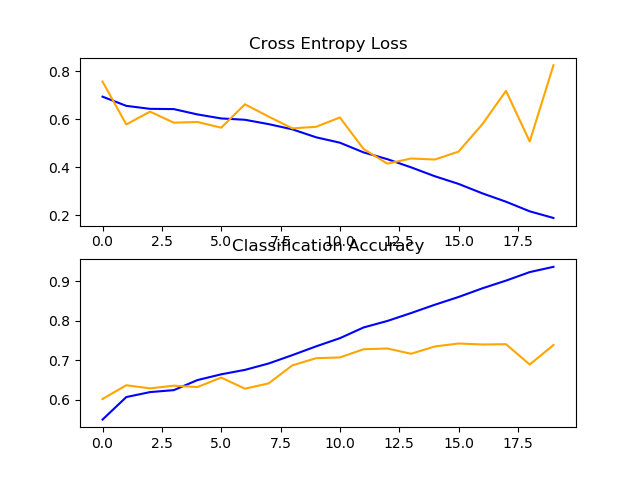
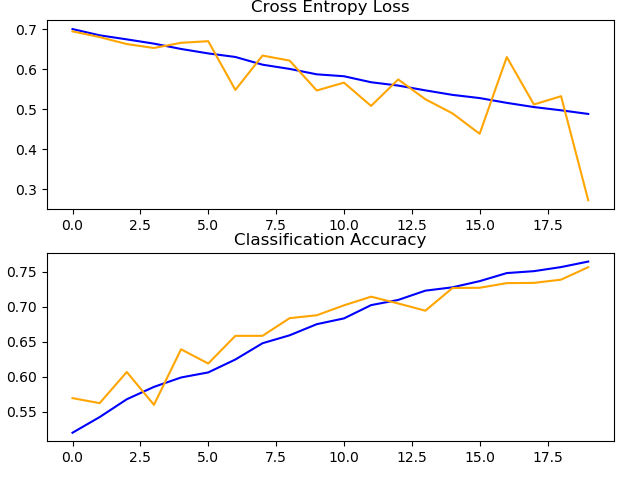
Add files via upload

diff --git a/TestHarness.py b/TestHarness.py
@@ -3,6 +3,7 @@ import sys
 from matplotlib import pyplot
 from keras.utils import to_categorical
 from keras.models import Sequential
+from keras.layers import Dropout
 from keras.layers import Conv2D
 from keras.layers import MaxPooling2D
 from keras.layers import Dense
@@ -18,8 +19,16 @@ def define_model():
 	model = Sequential()
 	model.add(Conv2D(32, (3, 3), activation='relu', kernel_initializer='he_uniform', padding='same', input_shape=(200, 200, 3)))
 	model.add(MaxPooling2D((2, 2)))
+	model.add(Dropout(0.2))
+	model.add(Conv2D(64, (3, 3), activation='relu', kernel_initializer='he_uniform', padding='same'))
+	model.add(MaxPooling2D((2, 2)))
+	model.add(Dropout(0.2))
+	model.add(Conv2D(128, (3, 3), activation='relu', kernel_initializer='he_uniform', padding='same'))
+	model.add(MaxPooling2D((2, 2)))
+	model.add(Dropout(0.2))
 	model.add(Flatten())
 	model.add(Dense(128, activation='relu', kernel_initializer='he_uniform'))
+	model.add(Dropout(0.5))
 	model.add(Dense(1, activation='sigmoid'))
 	# compile model
 	opt = SGD(lr=0.001, momentum=0.9)
@@ -61,6 +70,6 @@ def run_test_harness():
 	print('> %.3f' % (acc * 100.0))
 	# learning curves
 	summarize_diagnostics(history)
-
+	#model.predict()
 # entry point, run the test harness
 run_test_harness()

diff --git a/ThreeBlockVGG.py b/ThreeBlockVGG.py
@@ -1,0 +1,17 @@
+
+# define cnn model
+def define_model():
+	model = Sequential()
+	model.add(Conv2D(32, (3, 3), activation='relu', kernel_initializer='he_uniform', padding='same', input_shape=(200, 200, 3)))
+	model.add(MaxPooling2D((2, 2)))
+	model.add(Conv2D(64, (3, 3), activation='relu', kernel_initializer='he_uniform', padding='same'))
+	model.add(MaxPooling2D((2, 2)))
+	model.add(Conv2D(128, (3, 3), activation='relu', kernel_initializer='he_uniform', padding='same'))
+	model.add(MaxPooling2D((2, 2)))
+	model.add(Flatten())
+	model.add(Dense(128, activation='relu', kernel_initializer='he_uniform'))
+	model.add(Dense(1, activation='sigmoid'))
+	# compile model
+	opt = SGD(lr=0.001, momentum=0.9)
+	model.compile(optimizer=opt, loss='binary_crossentropy', metrics=['accuracy'])
+	return model

diff --git a/TwoBlockVGG.py b/TwoBlockVGG.py
@@ -1,0 +1,15 @@
+# define cnn model
+def define_model():
+	model = Sequential()
+	model = Sequential()
+	model.add(Conv2D(32, (3, 3), activation='relu', kernel_initializer='he_uniform', padding='same',input_shape=(200, 200, 3)))
+	model.add(MaxPooling2D((2, 2)))
+	model.add(Conv2D(64, (3, 3), activation='relu', kernel_initializer='he_uniform', padding='same'))
+	model.add(MaxPooling2D((2, 2)))
+	model.add(Flatten())
+	model.add(Dense(128, activation='relu', kernel_initializer='he_uniform'))
+	model.add(Dense(1, activation='sigmoid'))
+	# compile model
+	opt = SGD(lr=0.001, momentum=0.9)
+	model.compile(optimizer=opt, loss='binary_crossentropy', metrics=['accuracy'])
+	return model

diff --git a/OneBlockVGG.py b/OneBlockVGG.py
@@ -1,0 +1,11 @@
+model = Sequential()
+model.add(
+    Conv2D(32, (3, 3), activation='relu', kernel_initializer='he_uniform', padding='same', input_shape=(200, 200, 3)))
+model.add(MaxPooling2D((2, 2)))
+model.add(Flatten())
+model.add(Dense(128, activation='relu', kernel_initializer='he_uniform'))
+model.add(Dense(1, activation='sigmoid'))
+# compile model
+opt = SGD(lr=0.001, momentum=0.9)
+model.compile(optimizer=opt, loss='binary_crossentropy', metrics=['accuracy'])
+return model
